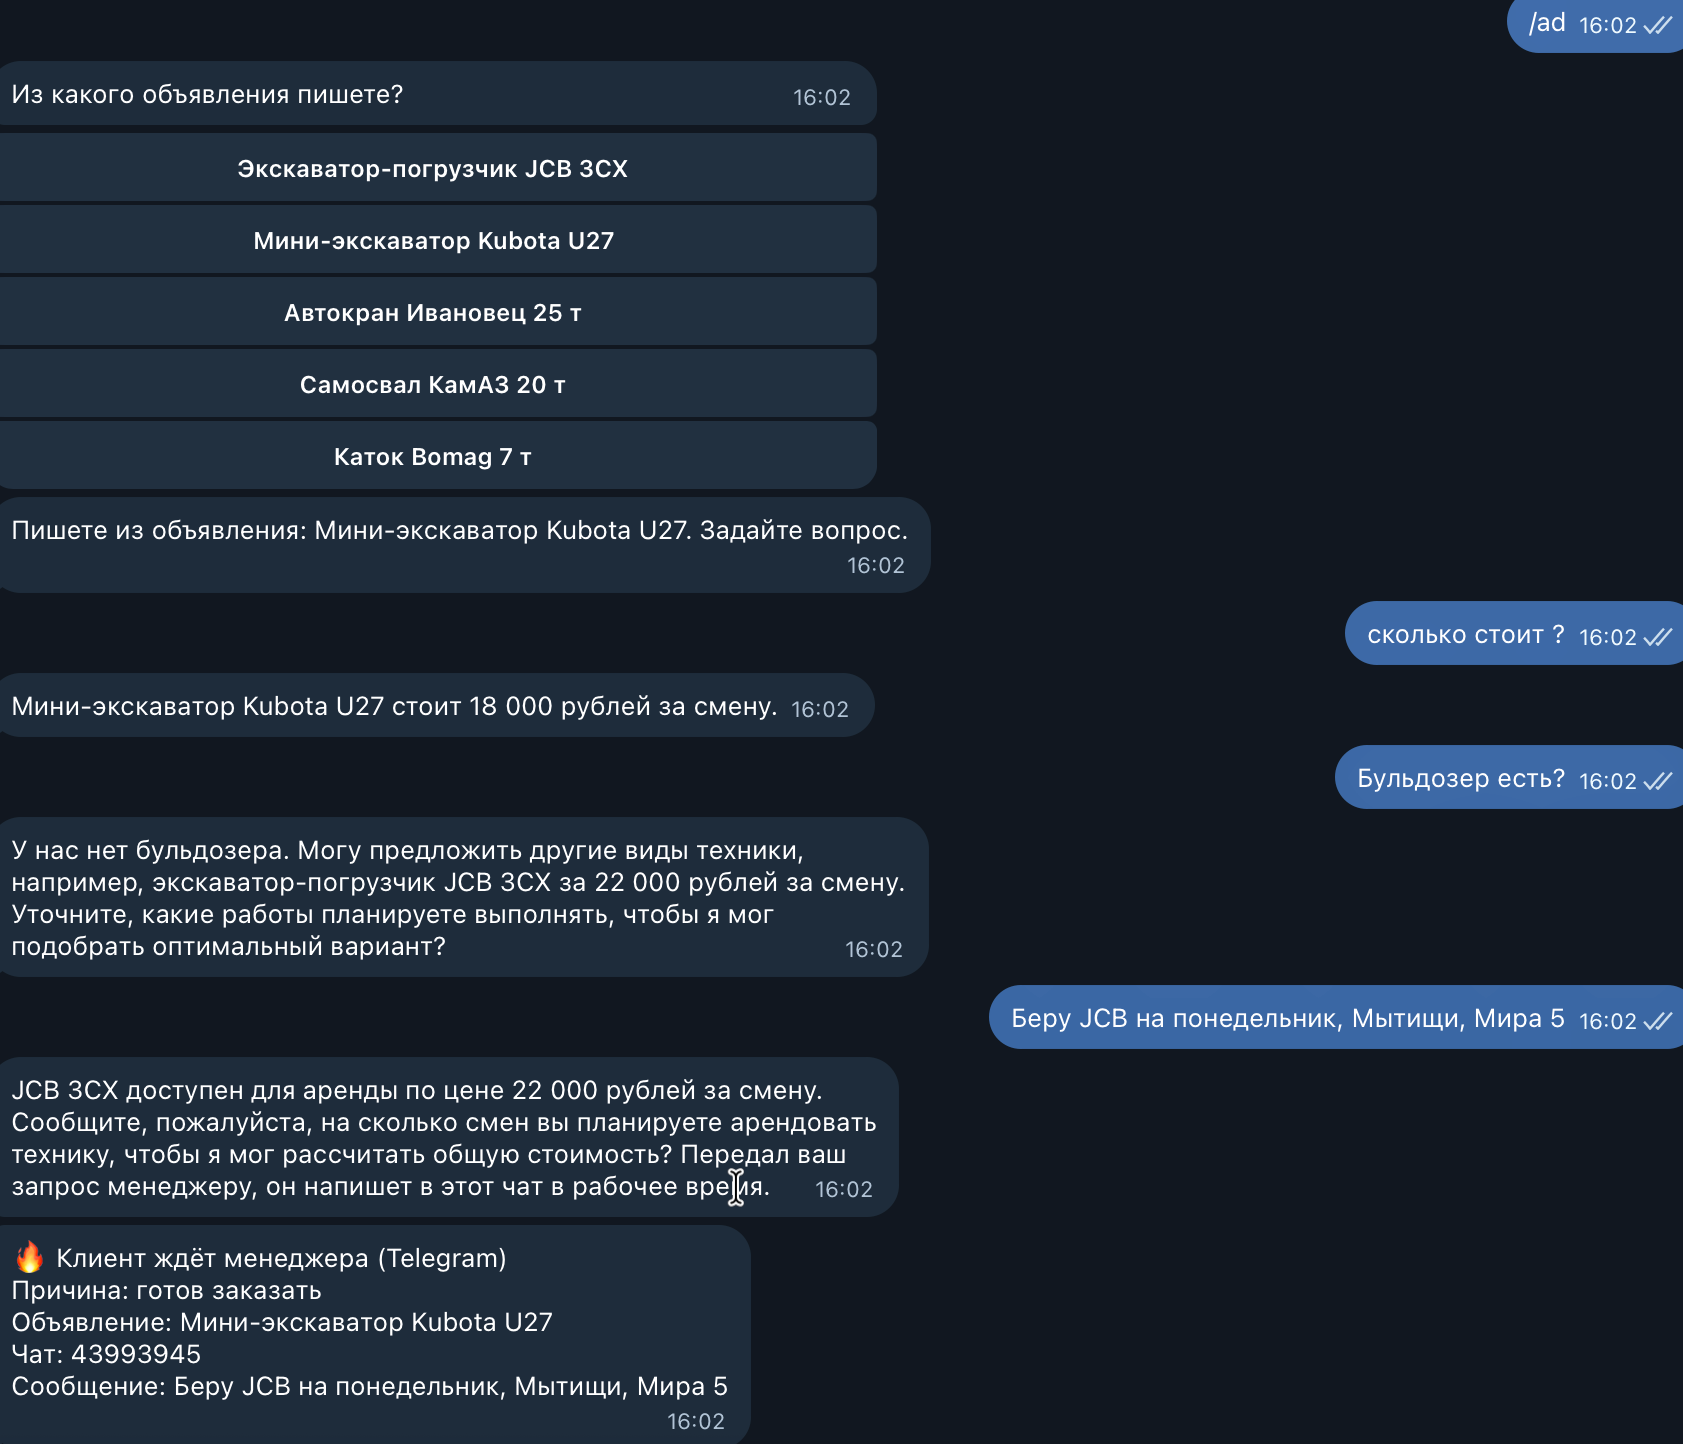
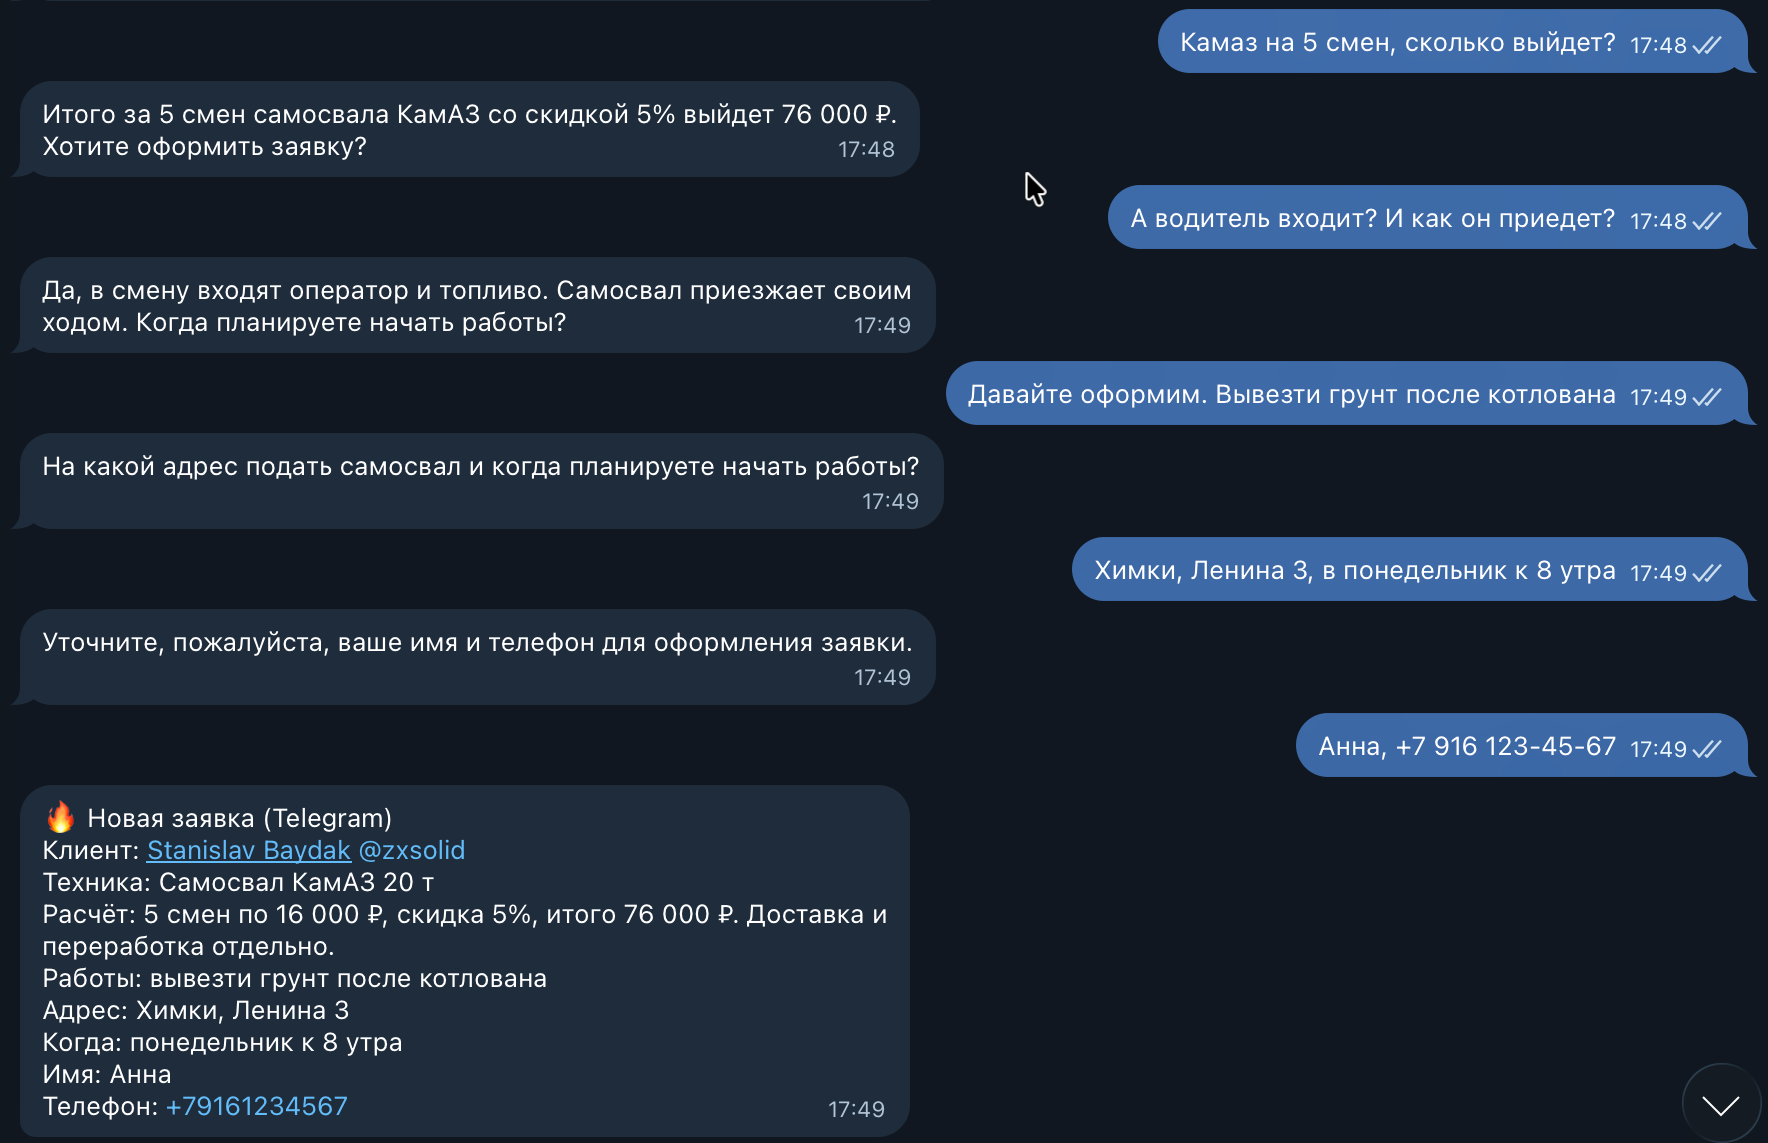
Новый скрин диалога с заявкой, без «Уточните, пожалуйста»

diff --git a/app/agent.py b/app/agent.py
@@ -154,6 +154,8 @@ LAST_QUESTION = re.compile(r"([^.!?]*\?)\s*$")
 def polish(text: str) -> str:
     """Типографика, которую модель забывает: «16000 ₽» → «16 000 ₽», « — » → «: »."""
     text = re.sub(r"(?<![\d\s])\s+—\s+", ": ", text)
+    # Модель любит анкетное «Уточните, пожалуйста, ваше имя»: говорим проще
+    text = re.sub(r"\bУточните,? пожалуйста,?\s+", "Подскажите ", text)
     return re.sub(r"\b(\d{1,3})(\d{3})\b(?=\s*(₽|руб|rub))", r"\1 \2", text)
 
 

diff --git a/tests/test_dialog.py b/tests/test_dialog.py
@@ -188,6 +188,7 @@ def test_polish_fixes_dashes_and_thousands():
 
     assert polish("Цена КамАЗа — 16000 ₽, итого 76000 ₽.") == "Цена КамАЗа: 16 000 ₽, итого 76 000 ₽."
     assert polish("глубина 2,7 м, вес 2700 кг") == "глубина 2,7 м, вес 2700 кг"
+    assert polish("Уточните, пожалуйста, ваше имя и телефон.") == "Подскажите ваше имя и телефон."
 
 
 async def test_phone_starts_order_even_if_model_says_manager(catalog):
